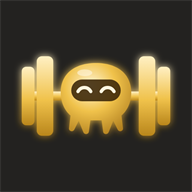
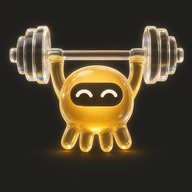
Icono nuevo: bicho de cristal ambar con pesa

diff --git a/index.html b/index.html
@@ -10,8 +10,8 @@
 <meta name="apple-mobile-web-app-title" content="Gym">
 <title>Gym</title>
 <link rel="manifest" href="manifest.webmanifest">
-<link rel="icon" href="icono.svg" type="image/svg+xml">
-<link rel="apple-touch-icon" sizes="180x180" href="icono-180.png?v=3">
+<link rel="icon" href="icono-192.png?v=4" type="image/png">
+<link rel="apple-touch-icon" sizes="180x180" href="icono-180.png?v=4">
 <link rel="preconnect" href="https://fonts.googleapis.com">
 <link rel="preconnect" href="https://fonts.gstatic.com" crossorigin>
 <link href="https://fonts.googleapis.com/css2?family=Barlow+Condensed:wght@500;600;700&family=Barlow:wght@400;500;600&family=IBM+Plex+Mono:wght@400;500;600&display=swap" rel="stylesheet">

diff --git a/sw.js b/sw.js
@@ -1,4 +1,4 @@
-const VERSION = 'serie-v34';
+const VERSION = 'serie-v35';
 const ARCHIVOS = ['./', './index.html', './manifest.webmanifest', './icono.svg', './icono-192.png', './icono-512.png', './icono-180.png', './bicho.js'];
 self.addEventListener('install', (e) => { e.waitUntil(caches.open(VERSION).then((c) => c.addAll(ARCHIVOS.map((u) => new Request(u, { cache: 'reload' })))).then(() => self.skipWaiting())); });
 self.addEventListener('activate', (e) => { e.waitUntil(caches.keys().then((ks) => Promise.all(ks.filter((k) => k !== VERSION).map((k) => caches.delete(k)))).then(() => self.clients.claim())); });
